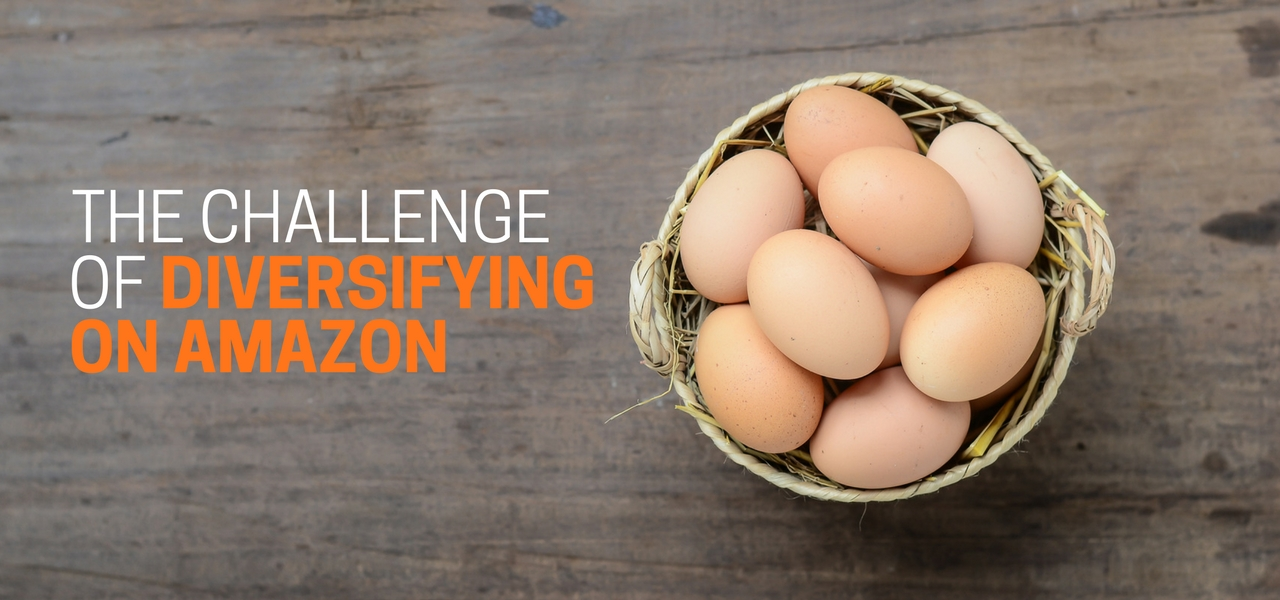
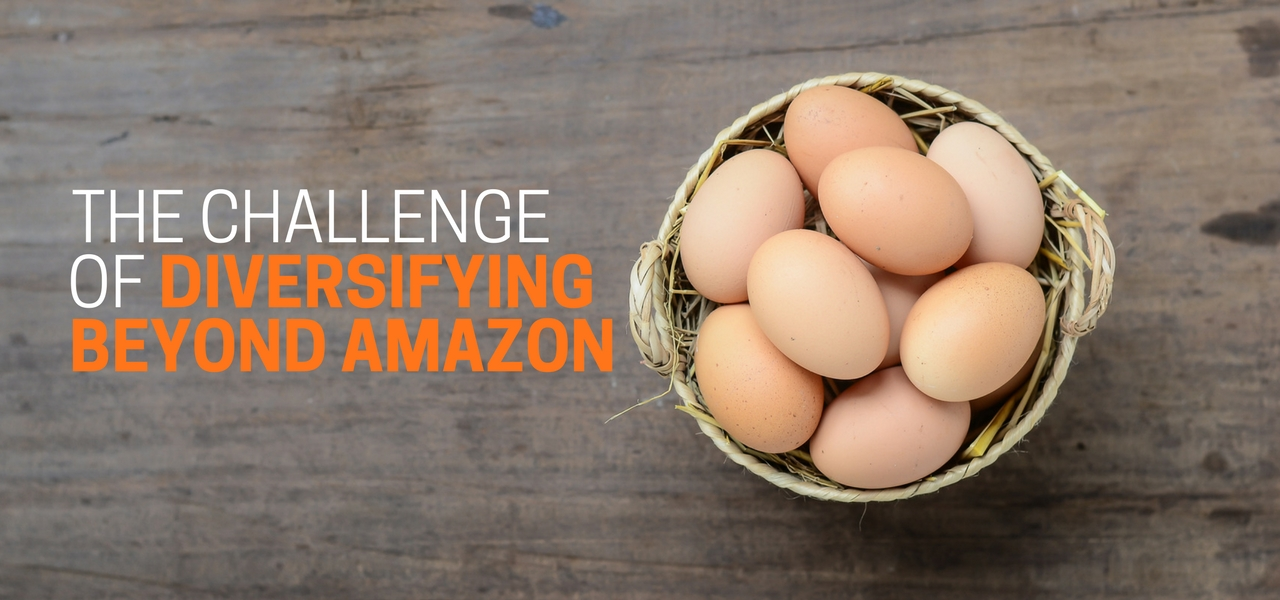
High ACoS post + fixed Diversifying image

Changed region(s): [[0.0625, 0.42, 0.5, 0.63]]

diff --git a/content/blog/high-acos-isnt-bad.md b/content/blog/high-acos-isnt-bad.md
@@ -1,0 +1,109 @@
+Title: Why High ACoS Isn't Always Bad
+Author: Bruce O.
+Category: Advertising
+Date: 2017-09-12 10:00
+Image: high-acos-isnt-bad.jpg
+Tags: Advertising, Sponsored Products, ACoS
+Summary: ACoS, is one of the most important metrics for evaluating your Sponsored Products performance. Generally, lower is better, but that's not always true. Read on to find out why.
+Status: published
+
+ACoS, or **Advertising Cost of Sales,** is one of the most important metrics for evaluating your Sponsored Product campaigns on Amazon. Despite that, many people misinterpret ACoS and what it means for their campaigns. 
+
+Let’s start with a definition. ACoS is expressed as a percentage, and it measures **what percentage of profits from advertised sales were spent on the advertising.** Expressed as a formula, *ACoS = ad spend / gross advertised sales.*
+
+As an example, if you made $1,000 in advertised sales over a particular period, and your ad spend was $180, your ACoS would be 180 / 1000 = **18%.** Pretty good! That means that every dollar of sales from advertising is costing you 18 cents. 
+
+As you can imagine, the general advice for ACoS is that **lower is better.** Low ACoS means that you’re bidding on all the right keywords (usually, exact-match keywords are the best for ACoS), your conversion rate once they click through is good, and your bids are competitive without being too high.
+
+However, pushing as hard as you can to lower your ACoS isn’t always the correct course to take. For some campaigns, having a higher ACoS, even one so high that you’re losing money, is totally acceptable. We’ll discuss this after we get into the details of break-even ACoS and how to best determine the profitability of campaigns. 
+
+### Understanding Break-Even ACoS
+
+ACoS is a useful tool for judging profitability, but you need to know exactly how to interpret it first. People will give you generic ACoS targets such as 30% or 50%, but that doesn’t tell the whole picture. That’s because ACoS can only (usefully) be judged on a per-product basis.
+
+What matters is **break-even ACoS,** which can only be measured for one product or for products with very similar adjusted gross margins. The break-even ACoS of a product is, as you may have guessed, *equal to the adjusted gross margin of that product.* 
+
+For example, if, after fees and everything are taken off, you’re left with a margin of 22%, then your break-even ACoS is 22%. If your ACoS is higher than 22%, you’re losing money; if it’s lower, you’re profitable. 
+
+That’s all intuitive, but the problem is that Amazon doesn’t actually show you ACoS on a per-product basis by default. They’ll only tell you the overall ACoS for a campaign or an ad group. If the products in that grouping have dissimilar adjusted gross margins, the overall ACoS is not very informative. Depending on the distribution of advertising cost, the same overall ACoS could either mean you’re gaining or losing money. You can learn more in this [informative blog post by Sellics](https://sellics.com/blog-amazon-sponsored-products-acos){:target="_blank"}. 
+
+In order to get ad-group-wide ACoS that’s actually meaningful, you need to group products with a similar break-even ACoS. Alternately, you can dedicate one campaign to each one of your products, which requires more maintenance but will give you more precise control over your keywords in the long run. 
+
+Once you have a break-even ACoS for your products, you have a yardstick for determining “high” and “low.” But we know that low ACoS means you’re profitable, and high ACoS means you’re not, right? So why would we ever want high ACoS?
+
+### The Time and Place for High ACoS
+
+Lower ACoS is better, yes. It means you’re getting more return on each ad dollar spent. But what if your goal isn’t maximum return?
+
+With the death of incentivized reviews, Sponsored Products have become a critical method of drawing attention to your products, spurring sales as well as reviews. 
+
+In the case of recent product launches, or any products which need a visibility boost, **high ACoS campaigns can be acceptable or even desirable.** 
+
+Of course, we should qualify this a bit. “I have high ACoS, I must be doing great” isn’t the end of the story when it comes to product launches. Specifically, if your goal is exposure and visibility, high ACoS **and decent CTR/conversion rate** is the gold standard. 
+
+If your click-through rate is too low, then you aren’t bidding on the relevant keywords, and you’ll need to adjust if you actually want to accomplish your goal of reaching out to customers. Similarly, if your conversion rate is too low, you can have a very high ACoS even if you’re not bidding very competitively. This is simply because no one is buying your products after clicking on your ads. 
+
+In the case of low CTR, your keywords were the problem. In the case of low conversion rate, your *listing quality* is often the problem. Make sure your listing is high quality so that people aren’t scared off as soon as they click on your ad — high-quality images, informative bullet points, and a thoughtful, compelling description are all key. Low conversion rate can also be a sign of irrelevant keywords — customers might click on your ads out of curiousity, then back out as soon as they realize it’s not what they’re looking for. 
+
+In general, your Sponsored Product conversion rate should be at or close to your organic conversion rate. If it’s significantly lower than that, it’s likely that you’ve included some irrelevant search terms that you need to fix.
+
+However, if you’ve got a newly launched product and your Sponsored Products are converting at a decent rate, then having ACoS at or above your break-even ACoS isn’t a bad thing. Depending on how much you’re willing to spend, it might even be desirable to go above your break-even threshold. You may lose money in the short term, but you’re banking on gaining much more in the long term. 
+
+### High ACoS and the Amazon Flywheel
+
+To understand how high ACoS can help you in the long term, i’ll defer to a metaphor that we like to use here at Efficient Era: the Amazon **flywheel.** 
+
+![Flywheel Diagram](/images/blog/2017/09/flywheel-diagram.jpg)
+
+A flywheel is a mechanical device that conserves energy that you put into it, continuing to spin even after input has stopped. It’s slow to get going, but once you get it spinning, it will keep spinning without much effort, and it’ll resist any changes in momentum after it’s gotten going.
+
+On Amazon, each product is a flywheel, and sales create the motion.
+
+When you first launch a product, the flywheel isn’t moving. You’ve got to put additional effort to start it moving, because no one’s going to buy a just-launched product with no reviews. Sponsored Product ads, promotional sales, and other common launch strategies contribute to starting the flywheel moving.
+
+Once the flywheel gets moving, things get easier, because sales generate reviews *and* start to boost your product’s sales rank. You’ll rank higher for organic searches, and people will confidently purchase after seeing your reviews, resulting in more and more sales, which beget more sales…
+
+A high-ACoS campaign is part of this launch strategy, the initial plan to get the flywheel moving. When a product’s just starting out, profitability isn’t the immediate priority — that comes later, once the product is off the ground. Your top priority is getting that flywheel spinning by generating as many sales as possible, profitability be damned.
+
+Of course, you don’t want to hemorrhage too much money in the process, either. But, in this introductory stage, breaking even or going a little bit into the red on your ACoS should be embraced, not feared. It means that you’re bidding aggressively and getting priority placement over your competitors, hopefully getting more clicks and conversions than you would at a “profitable” ACoS. 
+
+#### The Importance of Balance
+
+Of course, balance is important. Clicks and conversions are nice, but no one can keep all their campaigns running in the red forever. 
+
+If you already have well-established products which consistently get organic sales, you should still be running Sponsored Product campaigns for them, but you can (and should) use traditional measures of campaign profitability. This means that in addition to calculating your break-even ACoS, you should calculate your **target margin** for each product and campaign. Your target margin is whatever you want your final gross margin to be, adjusted for ACoS. Determining your target margin allows you to determine your target ACoS, and make decisions about your campaigns from there. For example, if your adjusted gross margin is 30%, and your target margin is 10%, then any ACoS at or below 20% is on target. 
+
+That’s all well and good, but there’s still an important concept to establish. When we get down to it, what’s the difference between a *well-established* product and a *newly-launched* product? More importantly, when does a newly-launched product “graduate” into a well-established product? It’s not always clear-cut, but we should discuss this anyway.
+
+### When to Adjust your Target ACoS
+
+As we’ve discussed, target ACoS varies depending on the goal of the campaign: ROI versus visibility. But how do we know when a product should make the switch from a visibility campaign to an ROI campaign?
+
+Well, there are a couple of metrics you can base this on. The most obvious one is organic clicks and sales. The goal of a high-ACoS visibility campaign is to generate advertising clicks and sales, which raise your sales rank and your organic search ranking for those keywords. Once your organic metrics are high enough, you can take your hands off the wheel and let organic sales slowly take over, reducing your bids (and ACoS) to profitable levels.
+
+Once your campaign is mature enough, you’ll have also collected enough keyword data to know what your customers are searching for. This means you can add exact match long-tail keywords and reduce your bids on broad keywords, pulling your ACoS down further. 
+
+Since Sponsored Products can also help you gain reviews — as long as you’re [collecting reviews](https://efficientera.com/blog/2016/10/seller-feedback-follow-ups.html) using the [correct techniques](https://efficientera.com/blog/2017/08/how-to-ask-for-a-review.html) for review generation. So, reaching a threshold of reviews is another great way to know if your product has gotten over the initial hump. Usually, around 10–20 reviews is enough to make customers feel secure in their purchase. 
+
+Remember, though, that visibility campaigns aren’t exclusive to new products! If a product of yours has been in a slump for several months, you can consider upping your bids in an attempt to generate some extra attention and hopefully brings its organic sales back to acceptable levels. Point is, the categories of “newly-launched” and “well-established” can be a bit limiting when we’re talking about different advertising strategies. Always stay flexible when considering your options.
+
+### Conclusion: Be Patient with ACoS
+
+As a final point, any judgment of Sponsored Product campaign performance should be delayed until at least two weeks (preferably a month) of data have been collected. This applies doubly for ACoS. When a campaign has just launched, the metrics will be all over the place, simply because of the natural variability of advertising campaigns. Data doesn’t start to get reliable until about 100–200 clicks have been gathered, but even then, you should let your campaigns run without touching them for several weeks. 
+
+Waiting this long is also important because Amazon attributes a sale to a click if that sale happened *a week or less* after the initial click. During the first week of a campaign, your ACoS will almost always look horrible. Wait a week or two, however, and your metrics will start to improve. 
+
+The same advice holds for keyword performance. Week-to-week keyword performance can vary wildly, so to get the big picture, you need to wait for around a month before adjusting bids or removing keywords. For the same reasons, be sure to look at the cumulative data over that entire month rather than weekly performance. Otherwise, slumps or surges could affect your judgment.
+
+Have you run high-ACoS campaigns in the past? What have your experiences been? Let us know in the comments!
+
+---
+
+<!--Added this section from Leadboxes-->
+<a class="btn btn-primary" href="https://efficientera.leadpages.co/leadbox/121f91a73f72a2%3A12c54680e746dc/5687539843203072/" target="_blank">Subscribe via Email</a><script data-leadbox="121f91a73f72a2:12c54680e746dc" data-url="https://efficientera.leadpages.co/leadbox/121f91a73f72a2%3A12c54680e746dc/5687539843203072/" data-config="%7B%7D" type="text/javascript" src="https://efficientera.leadpages.co/leadbox-1468522675.js"></script>
+
+#### <font color="FF751A">If you liked this article, take a look at some of our others!</font>
+
+<a href="https://efficientera.com/blog/2016/08/3-tips-for-optimizing-your-amazon-sponsored-products.html">![Sponsored Products Image](/images/blog/related/sponsored-products_small.jpg)</a>
+<a href="https://efficientera.com/blog/2017/06/get-most-out-of-ad-analysis.html">![EE Ad Analysis Image](/images/blog/related/ee-ad-analysis_small.jpg)</a>
+<a href="https://efficientera.com/blog/2017/08/headline-search-ads-a-new-frontier-for-branded-advertising.html">![Headline Search Ads Image](/images/blog/related/headline-search-ads_small.jpg)</a>
